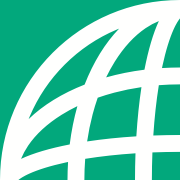
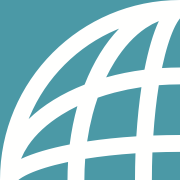
Update meta images according to new style

diff --git a/app/assets/styles/core/_typography.scss b/app/assets/styles/core/_typography.scss
@@ -8,7 +8,7 @@
 
 .prose {
   font-size: $base-font-size;                           // 16px
-  line-height: $base-line-height;                       // 24px
+  line-height: 1.75;                                    // 32px
 
   > * {
     margin-bottom: $base-font-size * $base-line-height; // same as line-height
@@ -32,6 +32,14 @@
   .align-right {
     float: right;
     margin-left:  $global-spacing * 1.5;
+  }
+
+  ul, ol {
+    margin-left: $global-spacing * 3;
+
+    & > li:not(:last-child) {
+      margin-bottom: $global-spacing;
+    }
   }
 }
 

diff --git a/app/assets/scripts/components/results-map.js b/app/assets/scripts/components/results-map.js
@@ -190,7 +190,7 @@ export default class ResultsMap extends React.Component {
     this.map.on('load', () => {
       this.mapLoaded = true
       this.map.setPaintProperty('background', 'background-opacity', 0)
-      this.map.setPaintProperty('ne-countries-highlight', 'fill-color', '#02A87C')
+      this.map.setPaintProperty('ne-countries-highlight', 'fill-color', '#4b99a6')
 
       this.setHighlightedGeographies(this.props.highlightISO)
       this.map.fitBounds(this.props.bounds)

diff --git a/app/assets/styles/results/_hub.scss b/app/assets/styles/results/_hub.scss
@@ -146,11 +146,11 @@
   height: 0.5rem;
   border-radius: $full-border-radius;
   text-align: center;
-  font-size: 1rem;
+  font-size: 0.875rem;
   font-family: $heading-font-family;
   font-weight: $heading-font-bold;
   color: #fff;
-  background: shade($link-color, 28%);
+  background: rgba($base-color, 0.8);
   box-shadow: 0 0 0 $base-border-width $base-alpha-color;
   line-height: 0.5rem;
   vertical-align: middle;

diff --git a/app/assets/styles/settings/_variables.scss b/app/assets/styles/settings/_variables.scss
@@ -7,7 +7,7 @@
 
 $base-color: #22333B;                                   // Gunmetal
 $accent-color: #32746D;                                 // Myrtle green
-$primary-color: #02A87C;                                // Jade
+$primary-color: #4b99a6;                                // Jade
 $secondary-color: #21617A;                              // Blumine
 
 /* State */
